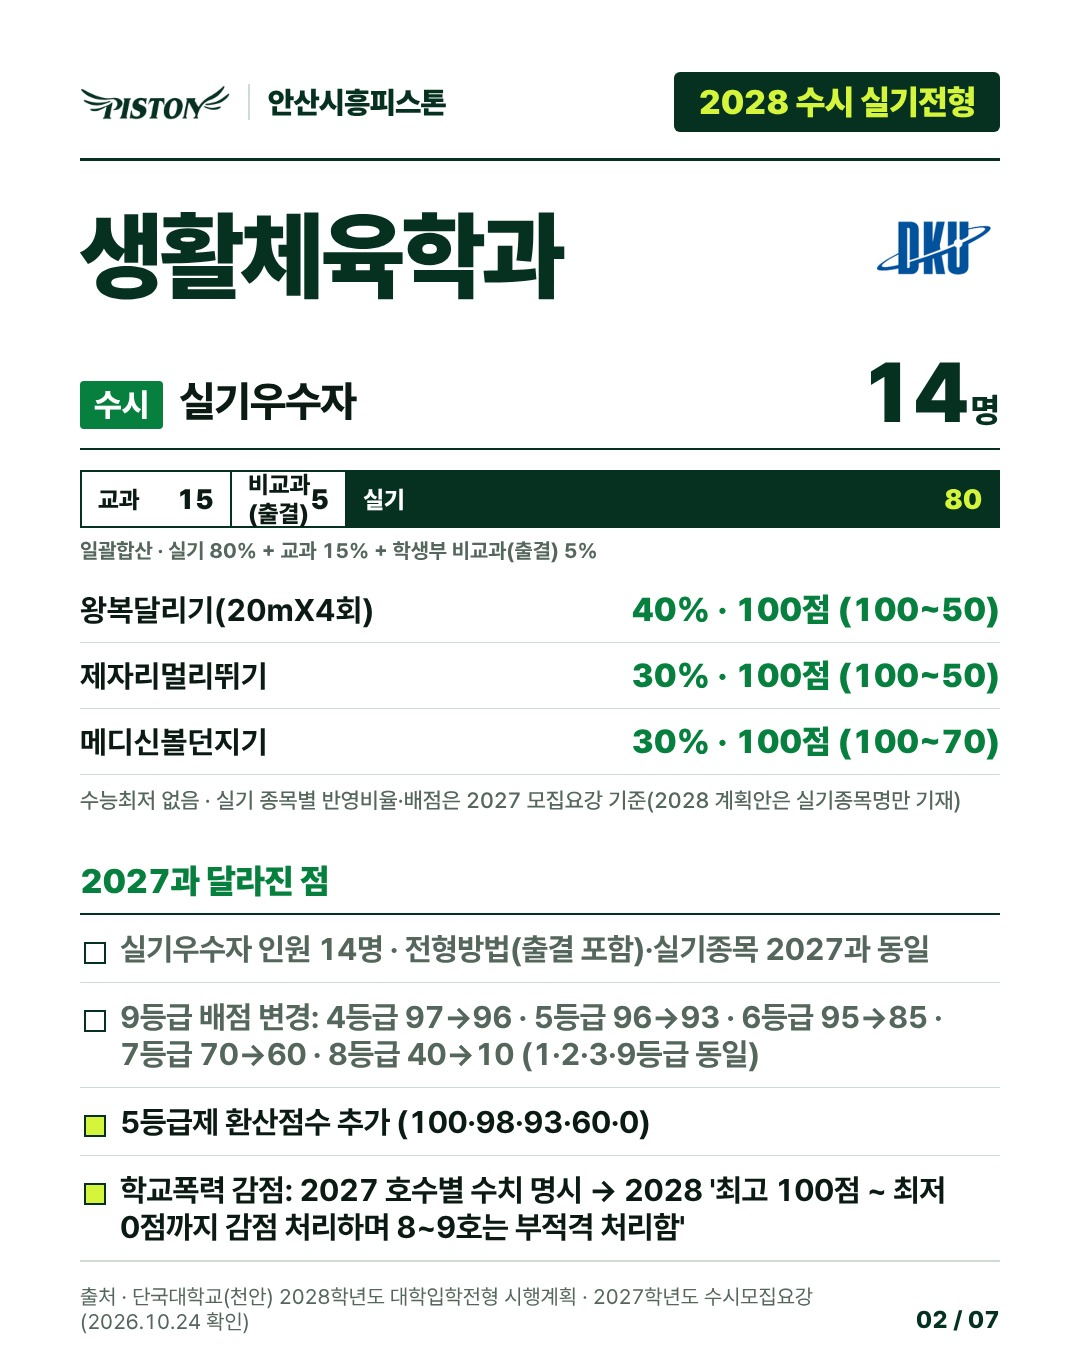
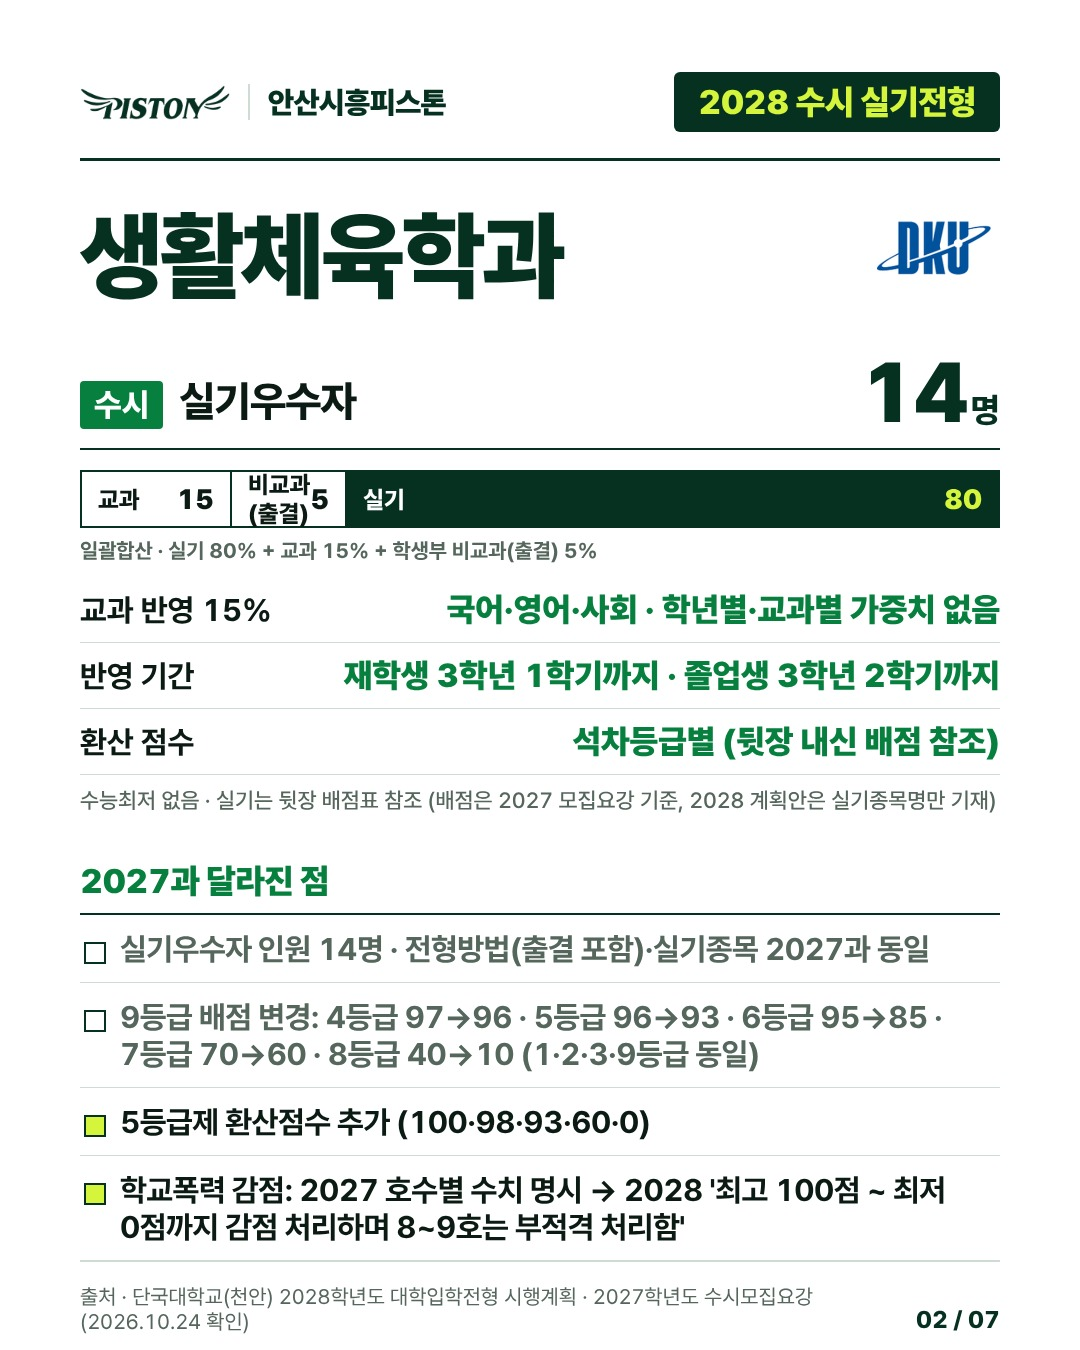
단국대 수시 학과 슬라이드: 실기 대신 내신 반영 방법
Claude-Session: https://claude.ai/code/session_01EGTn7G8nWP1yv5M2jqmoFb

Changed region(s): [[0.0611, 0.4356, 0.9167, 0.6222]]

diff --git a/social/out/dankook-cheonan-susi/blog.md b/social/out/dankook-cheonan-susi/blog.md
@@ -11,7 +11,7 @@
 ### 수시 실기우수자 — 14명
 - 반영비율: 교과 15% + 비교과(출결) 5% + 실기 80% (일괄합산 · 실기 80% + 교과 15% + 학생부 비교과(출결) 5%)
 - 실기종목: 왕복달리기(20mX4회) 40% · 100점 (100~50), 제자리멀리뛰기 30% · 100점 (100~50), 메디신볼던지기 30% · 100점 (100~70)
-- 수능최저 없음 · 실기 종목별 반영비율·배점은 2027 모집요강 기준(2028 계획안은 실기종목명만 기재)
+- 수능최저 없음 · 실기는 뒷장 배점표 참조 (배점은 2027 모집요강 기준, 2028 계획안은 실기종목명만 기재)
 
 [이미지: post-2.jpg]
 
